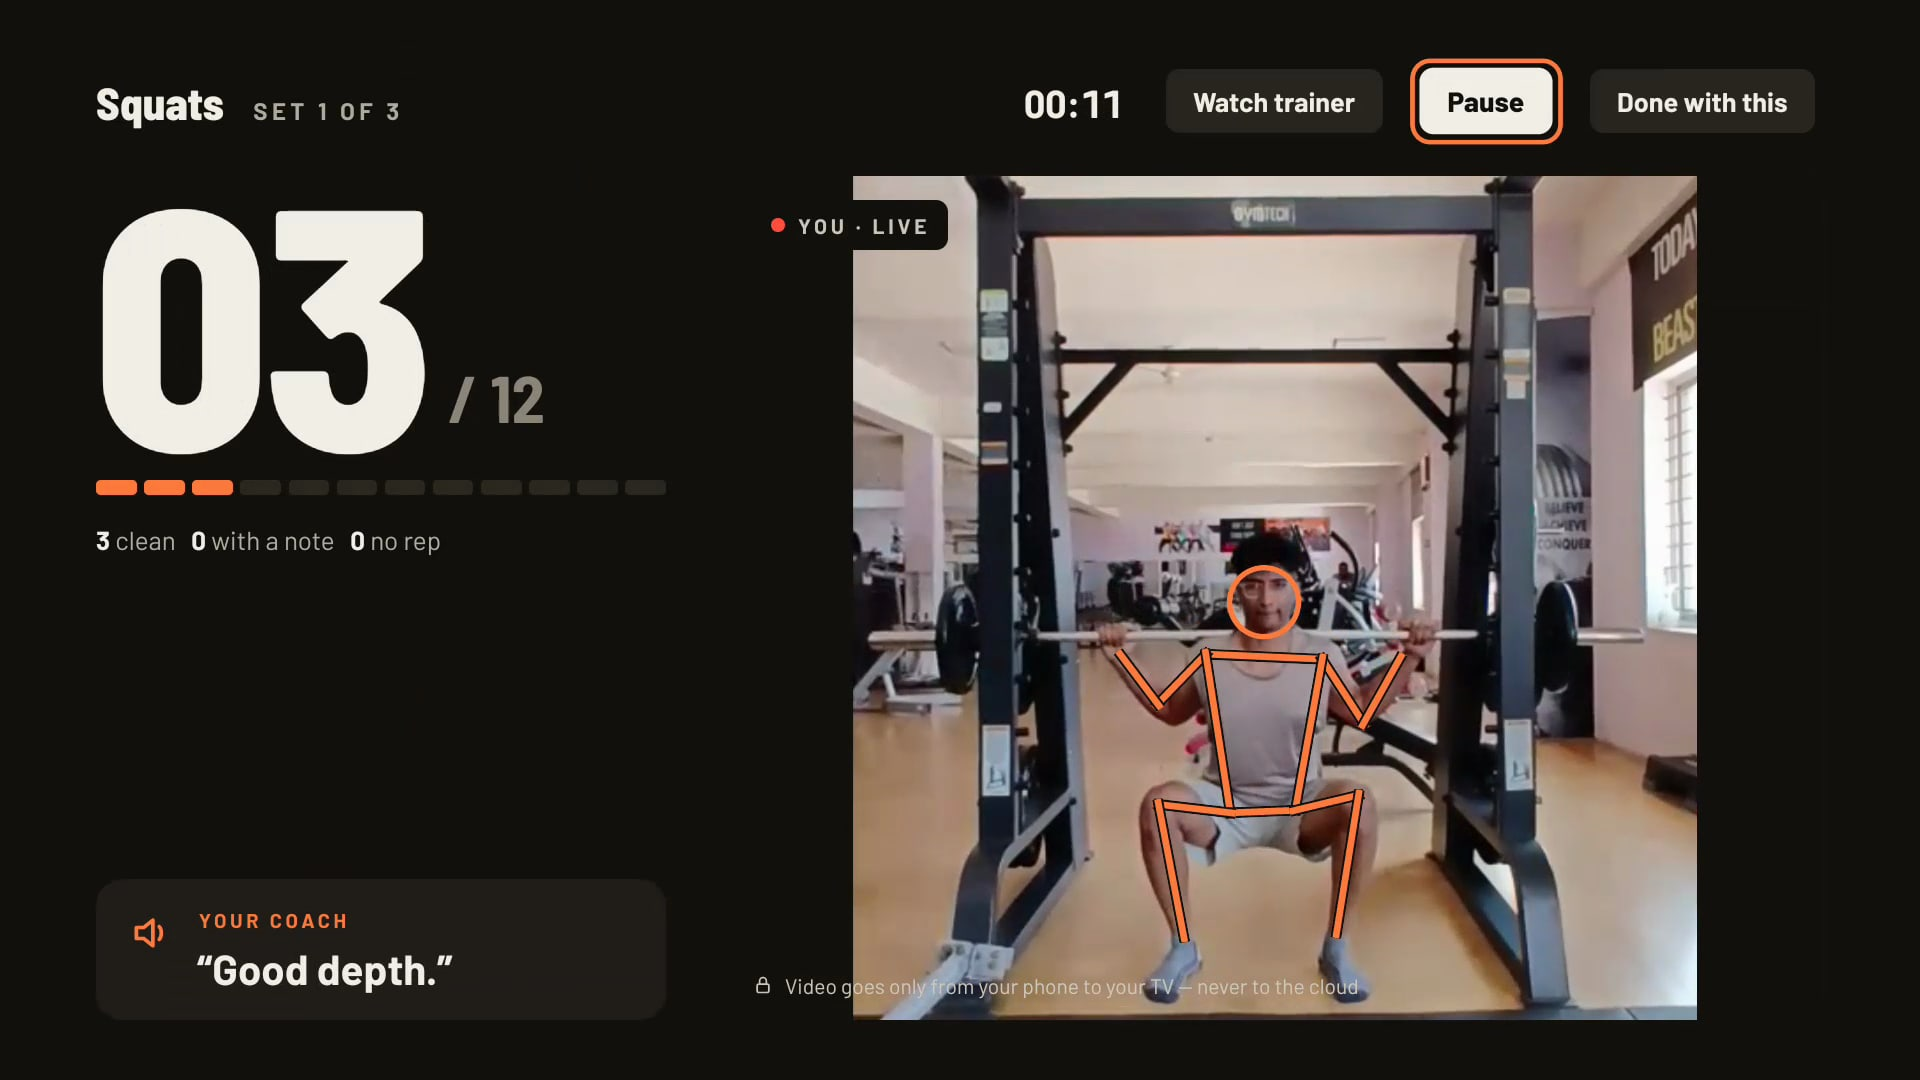
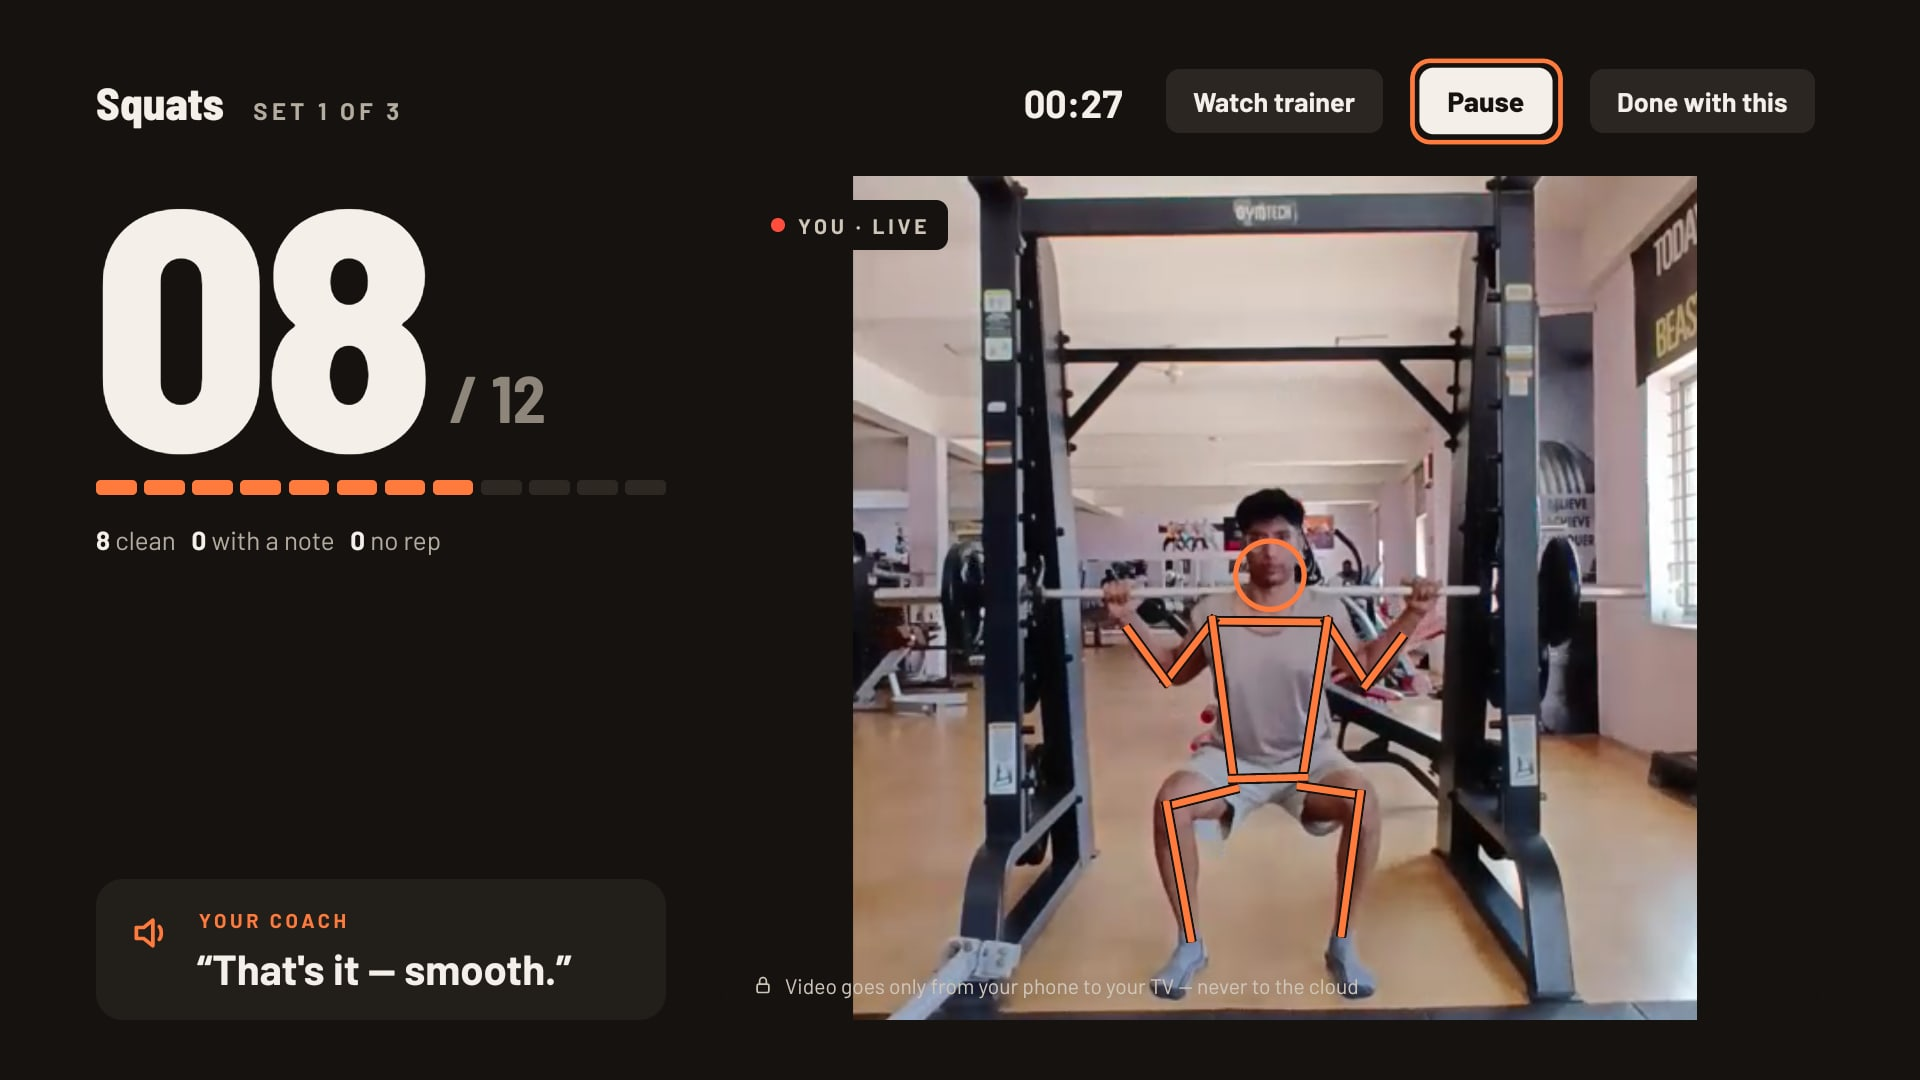
README pairing and live-set shots from the RepCast build; 'honest coach' wording

diff --git a/apps/camera/src/main.ts b/apps/camera/src/main.ts
@@ -408,7 +408,7 @@ function onRep(rep: RepResult): void {
   // The TV speaks; the phone shows the verdict. Linked to a TV, the count shown is the TV's (it
   // arrives a moment later); on its own the phone counts.
   if (!rep.counted) {
-    // An honest spotter: say plainly that it didn't count, and why.
+    // An honest coach: say plainly that it didn't count, and why.
     setCue(`No rep — ${rep.cues[0] ?? "that one doesn't count"}`, true);
   } else {
     if (!tv) ui.count.textContent = String(rep.count);

diff --git a/docs/TESTING.md b/docs/TESTING.md
@@ -1,6 +1,6 @@
 # How RepCast's rep counting is tested
 
-RepCast has to be an **honest spotter**: count good reps, say plainly when a rep doesn't count and why, and never count things that aren't the exercise. It is tested at three levels.
+RepCast has to be an **honest coach**: count good reps, say plainly when a rep doesn't count and why, and never count things that aren't the exercise. It is tested at three levels.
 
 ## 1. Unit tests (`repcast-movement`, 29 tests)
 
